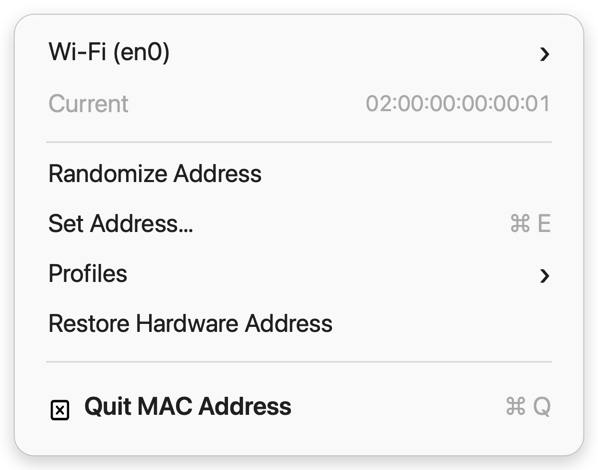
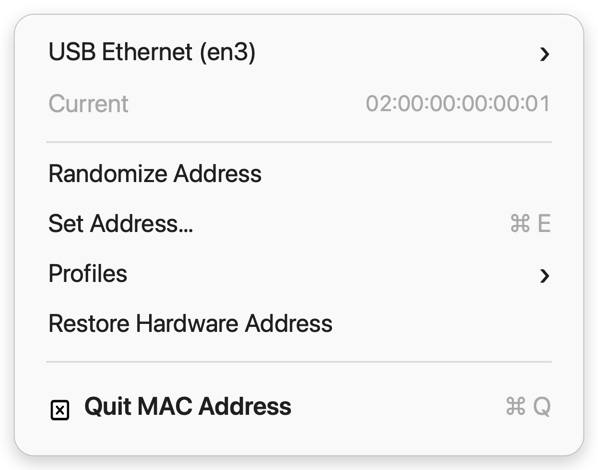
Handle system-managed Wi-Fi addresses

Changed region(s): [[0.0602, 0.0894, 0.4515, 0.1489]]

diff --git a/Sources/MACAddressApp.swift b/Sources/MACAddressApp.swift
@@ -51,23 +51,31 @@ final class AppDelegate: NSObject, NSApplicationDelegate, NSMenuDelegate {
                                 detail: selected.currentAddress?.displayValue ?? "Unavailable"))
         menu.addItem(.separator())
 
-        let random = NSMenuItem(title: "Randomize Address",
-                                action: #selector(useRandomAddress), keyEquivalent: "")
-        random.target = self
-        menu.addItem(random)
+        if NetworkInterfaceStore.isSystemManagedWiFi(selected) {
+            let settings = NSMenuItem(title: "Wi-Fi Address Settings…",
+                                      action: #selector(openWiFiAddressSettings),
+                                      keyEquivalent: "")
+            settings.target = self
+            menu.addItem(settings)
+        } else {
+            let random = NSMenuItem(title: "Randomize Address",
+                                    action: #selector(useRandomAddress), keyEquivalent: "")
+            random.target = self
+            menu.addItem(random)
 
-        let custom = NSMenuItem(title: "Set Address…",
-                                action: #selector(enterAddress), keyEquivalent: "e")
-        custom.target = self
-        menu.addItem(custom)
+            let custom = NSMenuItem(title: "Set Address…",
+                                    action: #selector(enterAddress), keyEquivalent: "e")
+            custom.target = self
+            menu.addItem(custom)
 
-        menu.addItem(profilesItem(for: selected))
+            menu.addItem(profilesItem(for: selected))
 
-        let restore = NSMenuItem(title: "Restore Hardware Address",
-                                 action: #selector(restoreHardwareAddress), keyEquivalent: "")
-        restore.target = self
-        restore.isEnabled = selected.currentAddress != selected.hardwareAddress
-        menu.addItem(restore)
+            let restore = NSMenuItem(title: "Restore Hardware Address",
+                                     action: #selector(restoreHardwareAddress), keyEquivalent: "")
+            restore.target = self
+            restore.isEnabled = selected.currentAddress != selected.hardwareAddress
+            menu.addItem(restore)
+        }
 
         menu.addItem(.separator())
         menu.addItem(quitItem)
@@ -149,6 +157,13 @@ final class AppDelegate: NSObject, NSApplicationDelegate, NSMenuDelegate {
     @objc private func selectInterface(_ sender: NSMenuItem) {
         guard let device = sender.representedObject as? String else { return }
         networkStore.select(device: device)
+    }
+
+    @objc private func openWiFiAddressSettings() {
+        guard let url = URL(string: "x-apple.systempreferences:com.apple.wifi-settings-extension") else {
+            return
+        }
+        NSWorkspace.shared.open(url)
     }
 
     @objc private func useRandomAddress() {

diff --git a/Sources/NetworkInterfaceStore.swift b/Sources/NetworkInterfaceStore.swift
@@ -4,8 +4,10 @@ enum NetworkInterfaceError: LocalizedError {
     case noInterfaces
     case invalidDevice
     case authorizationCancelled
+    case systemManagedWiFi
+    case interfaceRejected(String)
     case commandFailed(String)
-    case addressDidNotChange(expected: HardwareAddress, actual: HardwareAddress?)
+    case addressDidNotChange(String)
 
     var errorDescription: String? {
         switch self {
@@ -15,11 +17,14 @@ enum NetworkInterfaceError: LocalizedError {
             return "The selected network interface is not valid."
         case .authorizationCancelled:
             return "Administrator approval was cancelled."
+        case .systemManagedWiFi:
+            return "This version of macOS manages Wi-Fi addresses. Use Wi-Fi Address Settings to choose Fixed or Rotating, or select a supported Ethernet interface."
+        case .interfaceRejected(let name):
+            return "The driver for \(name) rejected the change. This adapter may not support custom MAC addresses."
         case .commandFailed(let message):
             return message.isEmpty ? "macOS could not update this interface." : message
-        case .addressDidNotChange(let expected, let actual):
-            let actualText = actual?.displayValue ?? "unknown"
-            return "The interface still reports \(actualText), not \(expected.displayValue). Its driver may not support changing the MAC address."
+        case .addressDidNotChange(let name):
+            return "The driver for \(name) did not keep the requested address."
         }
     }
 }
@@ -83,6 +88,9 @@ final class NetworkInterfaceStore {
         guard Self.isSafeDeviceName(interface.device) else {
             throw NetworkInterfaceError.invalidDevice
         }
+        guard !Self.isSystemManagedWiFi(interface) else {
+            throw NetworkInterfaceError.systemManagedWiFi
+        }
 
         let command = "/sbin/ifconfig \(interface.device) ether \(address.value)"
         let script = "do shell script \"\(Self.escapeForAppleScript(command))\" with administrator privileges"
@@ -93,15 +101,27 @@ final class NetworkInterfaceStore {
             if error.output.contains("(-128)") || error.output.localizedCaseInsensitiveContains("cancel") {
                 throw NetworkInterfaceError.authorizationCancelled
             }
-            throw NetworkInterfaceError.commandFailed(Self.cleanCommandError(error.output))
+            let message = Self.cleanCommandError(error.output)
+            if message.localizedCaseInsensitiveContains("SIOCAIFADDR")
+                || message.localizedCaseInsensitiveContains("can't assign requested address") {
+                throw NetworkInterfaceError.interfaceRejected(interface.displayName)
+            }
+            throw NetworkInterfaceError.commandFailed(message)
         }
 
         try reload()
         let actual = self.interface(device: interface.device)?.currentAddress
         guard actual == address else {
-            throw NetworkInterfaceError.addressDidNotChange(expected: address, actual: actual)
+            throw NetworkInterfaceError.addressDidNotChange(interface.displayName)
         }
         select(device: interface.device)
+    }
+
+    static func isSystemManagedWiFi(
+        _ interface: NetworkInterface,
+        osMajorVersion: Int = ProcessInfo.processInfo.operatingSystemVersion.majorVersion
+    ) -> Bool {
+        interface.hardwarePort == "Wi-Fi" && osMajorVersion >= 15
     }
 
     static func parseHardwarePorts(_ output: String) -> [NetworkInterface] {
@@ -172,9 +192,12 @@ final class NetworkInterfaceStore {
             .replacingOccurrences(of: "\"", with: "\\\"")
     }
 
-    private static func cleanCommandError(_ output: String) -> String {
+    static func cleanCommandError(_ output: String) -> String {
         output
             .replacingOccurrences(of: "execution error: ", with: "")
+            .replacingOccurrences(of: #"^\d+:\d+:\s*"#,
+                                  with: "",
+                                  options: .regularExpression)
             .trimmingCharacters(in: .whitespacesAndNewlines)
     }
 }

diff --git a/Tests/ModelTests.swift b/Tests/ModelTests.swift
@@ -6,6 +6,8 @@ struct ModelTests {
         try testHardwareAddresses()
         try testHardwarePortParsing()
         try testInterfaceStateParsing()
+        try testInterfaceSupport()
+        try testCommandErrorCleanup()
         try testProfiles()
         print("✓ All model tests passed")
     }
@@ -56,6 +58,29 @@ struct ModelTests {
         """)
         expect(state.address?.value == "02:ab:cd:ef:12:34")
         expect(state.isActive)
+    }
+
+    private static func testInterfaceSupport() throws {
+        let wifi = NetworkInterface(hardwarePort: "Wi-Fi",
+                                    device: "en0",
+                                    hardwareAddress: HardwareAddress("aa:bb:cc:dd:ee:00")!,
+                                    currentAddress: nil,
+                                    isActive: true)
+        let ethernet = NetworkInterface(hardwarePort: "USB Ethernet",
+                                        device: "en7",
+                                        hardwareAddress: HardwareAddress("02:11:22:33:44:55")!,
+                                        currentAddress: nil,
+                                        isActive: false)
+        expect(NetworkInterfaceStore.isSystemManagedWiFi(wifi, osMajorVersion: 26))
+        expect(!NetworkInterfaceStore.isSystemManagedWiFi(wifi, osMajorVersion: 14))
+        expect(!NetworkInterfaceStore.isSystemManagedWiFi(ethernet, osMajorVersion: 26))
+    }
+
+    private static func testCommandErrorCleanup() throws {
+        let raw = "0:90: execution error: ifconfig: ioctl (SIOCAIFADDR): Can't assign requested address (1)\n"
+        let cleaned = NetworkInterfaceStore.cleanCommandError(raw)
+        expect(!cleaned.hasPrefix("0:90:"))
+        expect(cleaned.hasPrefix("ifconfig:"))
     }
 
     private static func testProfiles() throws {

diff --git a/tools/menu-preview.swift b/tools/menu-preview.swift
@@ -68,7 +68,7 @@ func line(_ y: CGFloat) {
     path.stroke()
 }
 
-draw("Wi-Fi (en0)", x: 48, centerY: 416)
+draw("USB Ethernet (en3)", x: 48, centerY: 416)
 draw("›", x: 526, centerY: 416, font: NSFont.systemFont(ofSize: 32, weight: .regular),
      alignment: .right, width: 26)
 

diff --git a/README.md b/README.md
@@ -14,8 +14,9 @@ A tiny macOS menu bar app for changing a network interface's MAC address and
 switching between saved profiles.
 
 MAC Address discovers the interfaces already attached to your Mac, shows the
-current address, and applies custom, random, saved, or hardware addresses in a
-click. It has no Dock icon, no third-party service, and no telemetry.
+current address, and applies custom, random, saved, or hardware addresses on
+interfaces whose drivers support it. It has no Dock icon, no third-party
+service, and no telemetry.
 
 <p align="center">
   <img src=".github/menu.png" alt="MAC Address menu" width="420">
@@ -38,13 +39,17 @@ To keep it around, move `MAC Address.app` to `/Applications` and add it to
 
 ## Using
 
-- **Interface**: choose a Wi-Fi, Ethernet, Thunderbolt, or other hardware port.
-- **Randomize Address**: generate a locally administered unicast address.
-- **Set Address…**: apply any valid unicast 48-bit MAC address.
+- **Interface**: choose an Ethernet, Thunderbolt, Wi-Fi, or other hardware port.
+- **Randomize Address**: generate a locally administered unicast address on a
+  supported interface.
+- **Set Address…**: apply any valid unicast 48-bit MAC address on a supported
+  interface.
 - **Profiles**: save the current address with its interface, apply it later, or
   delete it without changing the active address.
 - **Restore Hardware Address**: return the selected interface to the address
   reported by macOS for that hardware port.
+- **Wi-Fi Address Settings…**: on current macOS versions, open Apple's per-network
+  **Off**, **Fixed**, and **Rotating** Private Wi-Fi Address controls.
 
 macOS asks for administrator approval whenever an address is changed. The
 interface may disconnect briefly while its hardware filter is reprogrammed.
@@ -53,9 +58,14 @@ interface may disconnect briefly while its hardware filter is reprogrammed.
 
 The app reads hardware ports with `networksetup`, reads live addresses with
 `ifconfig`, and uses macOS's standard administrator prompt to run one validated
-`ifconfig <device> ether <address>` command. Interface names come from macOS and
-are restricted to safe device characters; addresses are parsed and normalized
-before the privileged command is created.
+`ifconfig <device> ether <address>` command on driver-supported interfaces.
+Interface names come from macOS and are restricted to safe device characters;
+addresses are parsed and normalized before the privileged command is created.
+
+Starting with macOS Sequoia 15, Wi-Fi addresses are managed per network by
+macOS. MAC Address links directly to those settings instead of attempting a
+command the Wi-Fi driver will reject. See Apple's guide to
+[Private Wi-Fi Address](https://support.apple.com/en-us/102509).
 
 Profiles stay local at:
 
@@ -63,10 +73,10 @@ Profiles stay local at:
 ~/Library/Application Support/MAC Address/profiles.json
 ```
 
-MAC changes are normally temporary. A reboot, reconnect, network setting, or
-driver may restore or replace the address. Some hardware drivers do not permit
-address changes; the app verifies the reported address and tells you when a
-driver rejects the update. Use this tool only on networks you own or are
+Direct MAC changes are normally temporary. A reboot, reconnect, network setting,
+or driver may restore or replace the address. Some hardware drivers do not
+permit address changes; the app verifies the reported address and tells you
+when a driver rejects the update. Use this tool only on networks you own or are
 authorized to test.
 
 ## Development